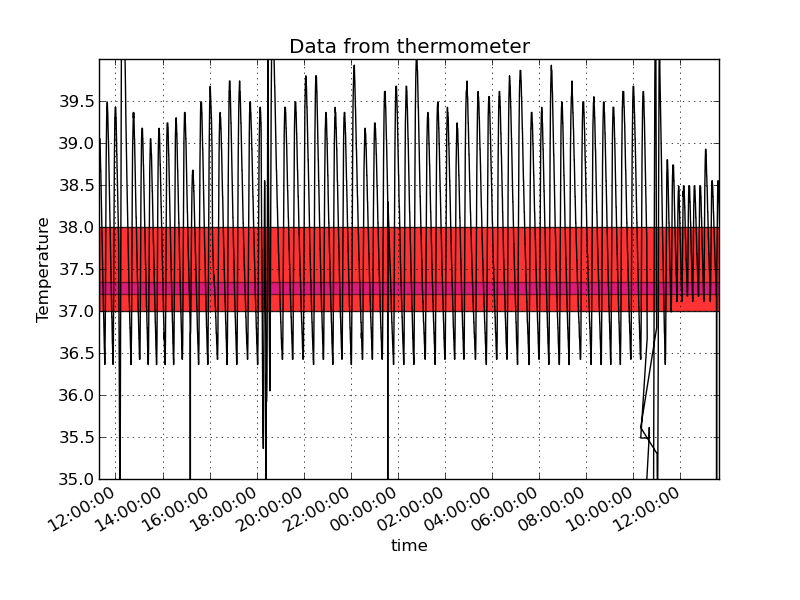
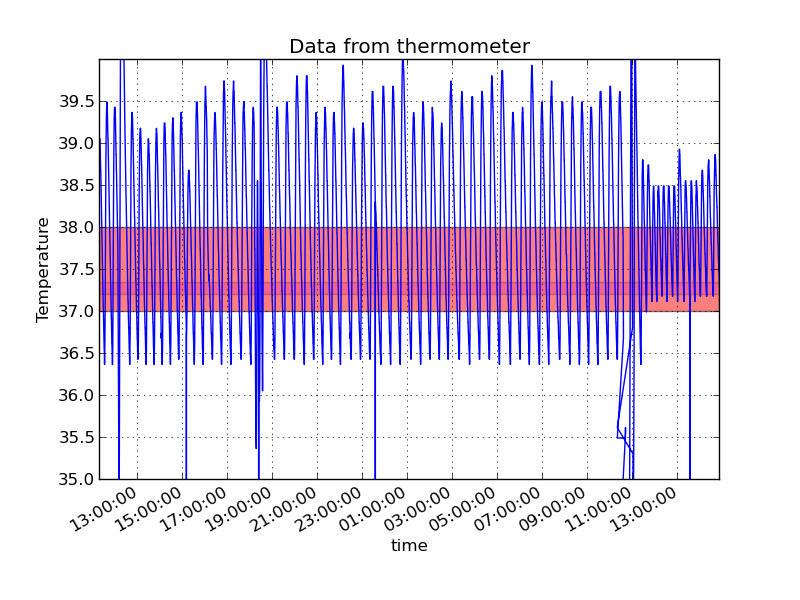
Added support to Pandas library

Changed region(s): [[0.0625, 0.09, 0.9062, 0.9]]

diff --git a/Raspberry_files/charts.py b/Raspberry_files/charts.py
@@ -8,6 +8,7 @@ import matplotlib.pyplot as plt
 import pandas as pd
 import numpy as np
 import pytz
+import pandas.io.sql as psql
 
 MAD=pytz.timezone('Europe/Madrid')
 datetime_format = '%Y-%m-%d %H:%M:%S'
@@ -98,6 +99,8 @@ def extract_SHT1x_data(datetime_format, db_local_path, db_utils_dict):
 def generate_comparing_temperature_with_dates_and_save(thermo_dates, thermo_temps, SHT1x_dates, SHT1x_temps, temp_param_MAX, temp_param_MIN, temp_MAX, temp_MIN, temp_limit_SUP, temp_limit_INF):
 	plt.plot(thermo_dates, thermo_temps, 'r', SHT1x_dates, SHT1x_temps,)
 	plt.ylim(temp_limit_INF, temp_limit_SUP)
+	y=np.arange(temp_limit_INF, temp_limit_SUP, 0.5)
+	plt.grid()
 	plt.gcf().autofmt_xdate()
 	legend( ('thermo', 'SHT1x') ,
         loc = 'upper right')
@@ -116,13 +119,13 @@ def generate_thermo_plot_and_save(thermo_dates, thermo_temps, thermo_status, tem
 	# plt.ylim(-0.1, 1.1)
 	# Second subplot
 	#plt.subplot(2, 1, 2)
-	plot_date(thermo_datesx, thermo_temps, 'k-', tz=MAD)
+	plot_date(thermo_dates, thermo_temps, 'b-', tz=MAD)
 	plt.ylim(temp_limit_INF, temp_limit_SUP)
 	y=np.arange(temp_limit_INF, temp_limit_SUP, 0.5)
 	plt.grid()
 	plt.yticks(y)
-	plt.axhspan(temp_MIN, temp_MAX, facecolor='r', alpha=0.8)
-	plt.axhspan(temp_param_MIN, temp_param_MAX, facecolor='m', alpha=0.5)
+	plt.axhspan(temp_MIN, temp_MAX, facecolor='r', alpha=0.5)
+	plt.axhspan(temp_param_MIN, temp_param_MAX, facecolor='m', alpha=0.2)
 	plt.gcf().autofmt_xdate()
 	plt.xlabel('time')
 	plt.ylabel('Temperature')
@@ -134,16 +137,18 @@ def generate_SHT1x_plot_and_save(SHT1x_dates, SHT1x_temps, SHT1x_humis, humi_par
 	plt.title('Data from SHT1x')
 	# First subplot
 	plt.subplot(2, 1, 1)
-	plt.plot(SHT1x_dates, SHT1x_humis, tz=MAD)
-	plt.axhspan(humi_MIN, humi_MAX, facecolor='r', alpha=0.8)
-	plt.axhspan(humi_param_MIN, humi_param_MAX, facecolor='m', alpha=0.5)
+	plot_date(SHT1x_dates, SHT1x_humis, 'b-', tz=MAD)
+	plt.axhspan(humi_MIN, humi_MAX, facecolor='r', alpha=0.5)
+	plt.axhspan(humi_param_MIN, humi_param_MAX, facecolor='m', alpha=0.2)
 	plt.ylabel('Humidity')
 	# Second subplot
 	plt.subplot(2, 1, 2)
-	plot_date(SHT1x_dates, SHT1x_temps, 'k-', tz=MAD)
+	plot_date(SHT1x_dates, SHT1x_temps, 'b-', tz=MAD)
 	plt.ylim(temp_limit_INF, temp_limit_SUP)
-	plt.axhspan(temp_MIN, temp_MAX, facecolor='r', alpha=0.8)
-	plt.axhspan(temp_param_MIN, temp_param_MAX, facecolor='m', alpha=0.5)
+	y=np.arange(temp_limit_INF, temp_limit_SUP, 0.5)
+	plt.grid()
+	plt.axhspan(temp_MIN, temp_MAX, facecolor='r', alpha=0.5)
+	plt.axhspan(temp_param_MIN, temp_param_MAX, facecolor='m', alpha=0.2)
 	plt.gcf().autofmt_xdate()
 	plt.xlabel('time')
 	plt.ylabel('Temperature')	
@@ -154,8 +159,12 @@ def generate_SHT1x_plot_and_save(SHT1x_dates, SHT1x_temps, SHT1x_humis, humi_par
 retrieve_DBs()
 thermo_dates, thermo_temps, thermo_status = extract_thermo_data(datetime_format, local_path_thermodb, thermodb_utils_dict)
 SHT1x_dates, SHT1x_temps, SHT1x_humis = extract_SHT1x_data(datetime_format, local_path_SHT1xdb, SHT1xdb_utils_dict)
-generate_comparing_temperature_with_dates_and_save(thermo_dates, thermo_temps, SHT1x_dates, SHT1x_temps, temp_param_MAX, temp_param_MIN, temp_MAX, temp_param_MIN, 43, 32)
+generate_comparing_temperature_with_dates_and_save(thermo_dates, thermo_temps, SHT1x_dates, SHT1x_temps, temp_param_MAX, temp_param_MIN, temp_MAX, temp_param_MIN, 40, 35)
 generate_thermo_plot_and_save(thermo_dates, thermo_temps, thermo_status, temp_param_MAX, temp_param_MIN, temp_MAX, temp_MIN, 40, 35)
 generate_SHT1x_plot_and_save(SHT1x_dates, SHT1x_temps, SHT1x_humis, humi_param_MAX, humi_param_MIN, humi_MAX, humi_MIN, 40, 35)
 
+# with sqlite3.connect('/home/weblord/Desktop/Incubator/Raspberry_files/SHT1x/SHT1x.db', detect_types=sqlite3.PARSE_DECLTYPES) as conn:
+#     df_sqlite = psql.frame_query('select * from READ', con=conn)    
+#     print 'loaded dataframe from sqlite', len(df_sqlite)
+#     print df_sqlite
 
